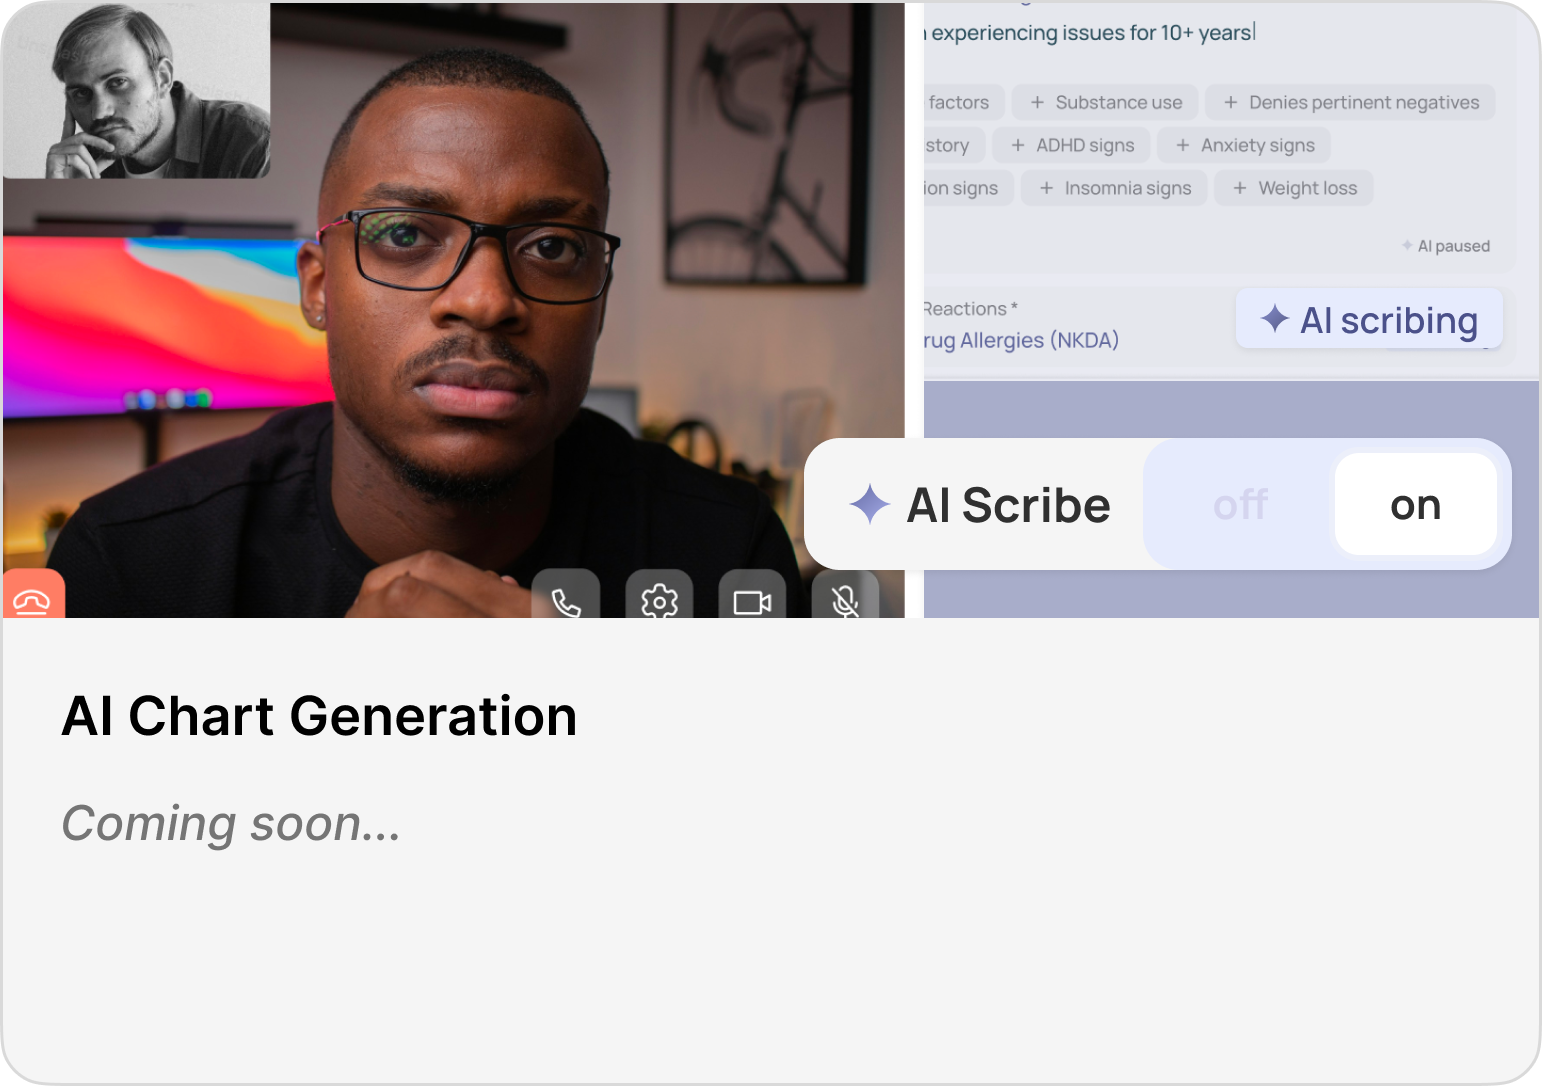
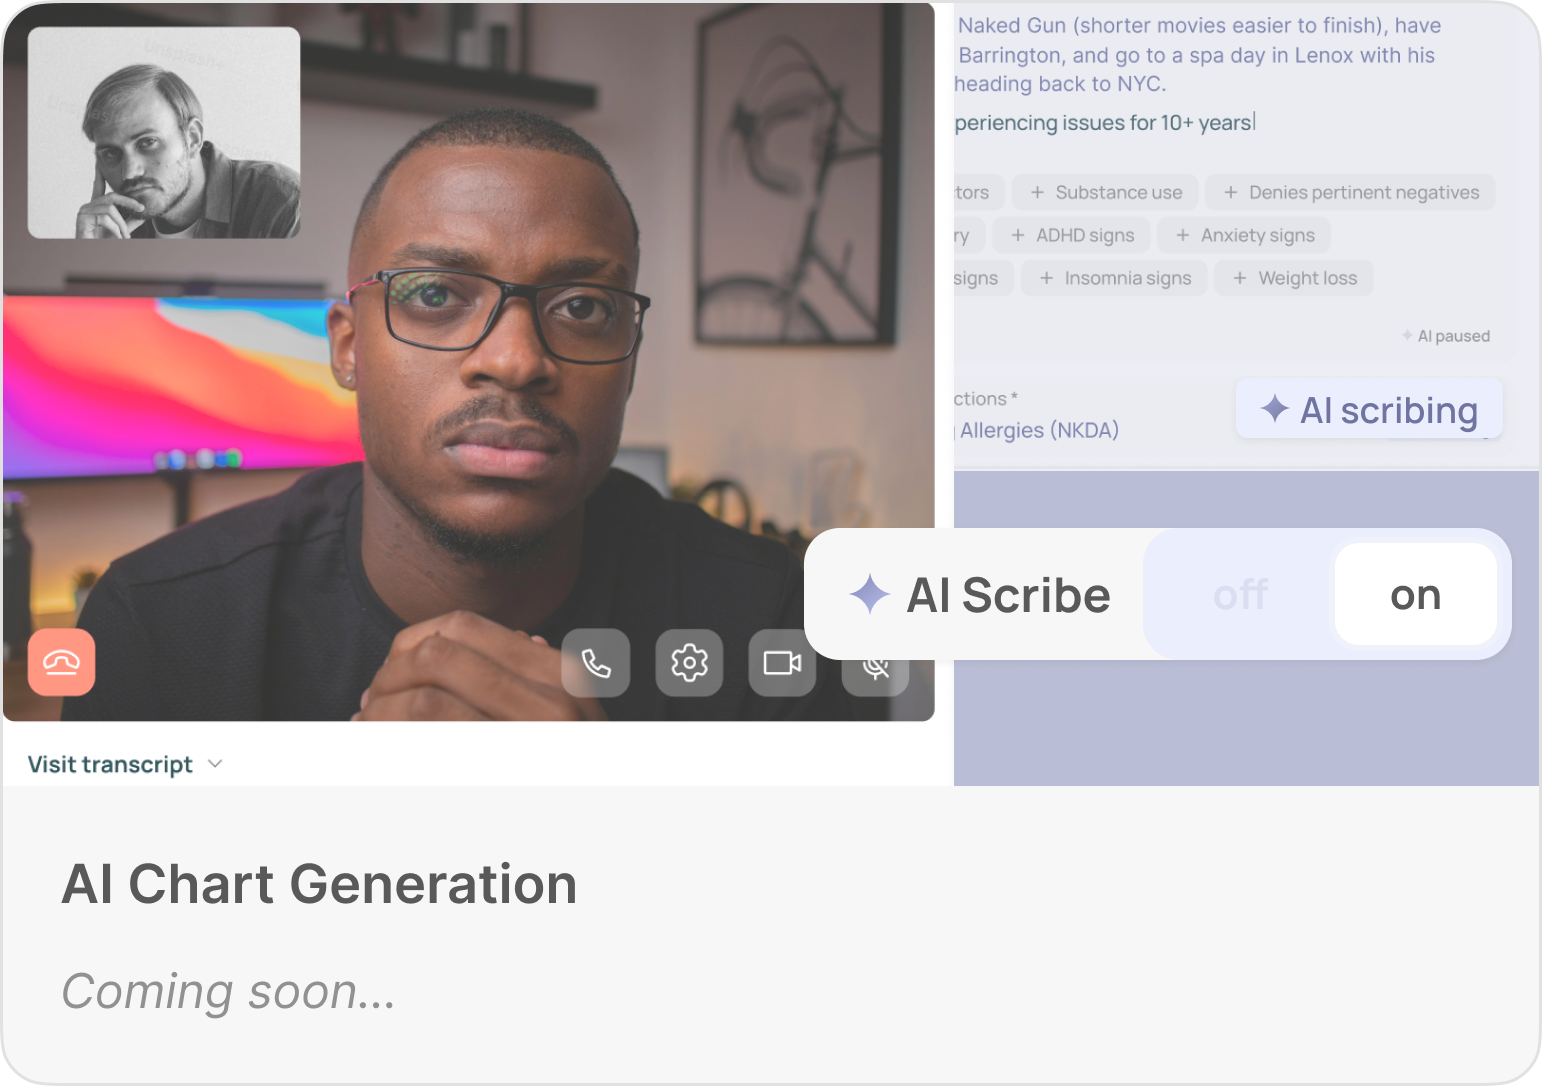
footer

diff --git a/Cases/medvidi/AI review-case/styles.css b/Cases/medvidi/AI review-case/styles.css
@@ -133,6 +133,8 @@ a { color: inherit; text-decoration: none; }
 
 .hero-subtitle strong {
   color: #444444;
+  font-weight: 600;
+  font-style: italic;
 }
 
 .hero-em-light {
@@ -1164,10 +1166,15 @@ p + p { margin-top: 16px; }
 }
 
 .footer-case-card {
-  width: min(100%, 282px);
+  width: 50%;
+  max-width: 530px;
   margin-bottom: 40px;
-  border-radius: 16px;
-  overflow: hidden;
+  opacity: 0.8;
+  transition: opacity 0.2s ease;
+}
+
+.footer-case-card:hover {
+  opacity: 1;
 }
 
 .footer-case-card img {
@@ -1291,6 +1298,7 @@ p + p { margin-top: 16px; }
   }
   .footer-case-card {
     width: min(100%, 320px);
+    max-width: 320px;
   }
 }
 
